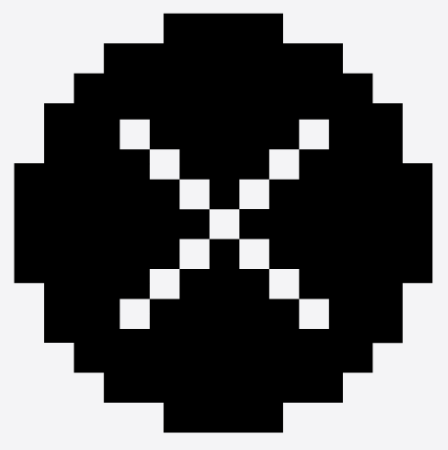
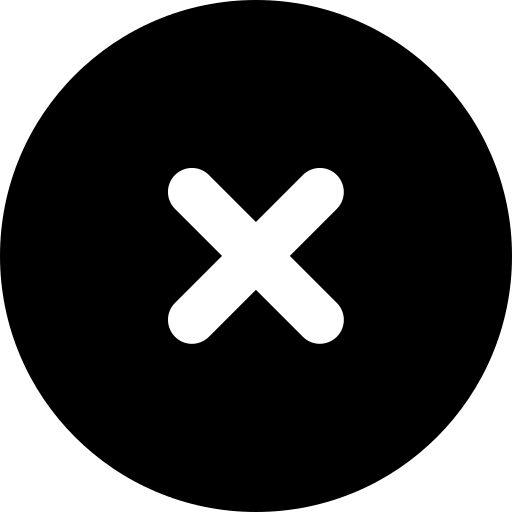
css adjustments

Changed region(s): [[0.0, 0.0, 1.0, 1.0], [0.25, 0.2489, 0.75, 0.7467], [0.25, 0.2489, 0.4688, 0.4667]]

diff --git a/App.js b/App.js
@@ -56,7 +56,7 @@ export default function App() {
                     <View style={styles.hideModal}>
                         <View style={styles.modalView}>
                             <Pressable style={styles.buttonClose} onPress={() => setForecastModalVisible(false)}>
-                                <Image style={styles.error} source={require('./assets/error2.png')} />
+                                <Image style={styles.error} source={require('./assets/error.png')} />
                             </Pressable>
                             <ForecastModal />
                         </View>
@@ -81,7 +81,7 @@ export default function App() {
                 <View style={styles.hideModal}>
                     <View style={styles.modalView}>
                         <Pressable style={styles.buttonClose} onPress={() => setInfoModalVisible(false)}>
-                            <Image style={styles.error} source={require('./assets/error2.png')} />
+                            <Image style={styles.error} source={require('./assets/error.png')} />
                         </Pressable>
                         <InfoModal />
                     </View>
@@ -100,10 +100,10 @@ const styles = StyleSheet.create({
         justifyContent: 'center',
     },
     openModal: {
-        position: 'absolute',
+        // position: 'absolute',
         paddingBottom: '50%',
         paddingTop: '80%',
-        marginHorizontal: '40%',
+        marginHorizontal: '38%',
         zIndex: 1,
     },
     earth: {
@@ -112,7 +112,7 @@ const styles = StyleSheet.create({
         alignSelf: 'center',
     },
 	surfTextContainer: {
-        alignSelf: 'center',
+        // alignSelf: 'center',
         backgroundColor: 'rgba(255, 255, 255, 0.8)', // Semi-transparent background
         paddingVertical: 10,
 		paddingHorizontal: 10,
@@ -128,10 +128,10 @@ const styles = StyleSheet.create({
     },
     hideModal: {
         flex: 1,
-        justifyContent: 'center',
+        justifyContent:'center',
         alignItems: 'center',
         marginHorizontal: '10%',
-        maxHeight: '90%',
+        maxHeight: '100%',
         maxWidth: '80%',
     },
     modalView: {
@@ -150,8 +150,8 @@ const styles = StyleSheet.create({
     error: {
         marginRight: '20%',
         alignSelf: 'flex-end',
-        width: '50%',
-        height: '60%',
+        width: '40%',
+        height: '50%',
         resizeMode: 'contain',
     },
     buttonClose: {

diff --git a/components/DateHour.js b/components/DateHour.js
@@ -123,7 +123,7 @@ export default function DateHour({ data }) {
 
 const styles = StyleSheet.create({
     container: {
-        marginTop: 10,
+        marginTop: '5',
         width: '100%',
         alignItems: 'center',
     },
@@ -131,7 +131,6 @@ const styles = StyleSheet.create({
         flexDirection: 'row',
         justifyContent: 'space-between',
         width: '100%', // Adjust width to fit within the screen
-        marginBottom: 10,
     },
     dropdownDay: {
         width: '60%', // Ensure both dropdowns fit properly
@@ -142,14 +141,16 @@ const styles = StyleSheet.create({
         borderColor: 'rgb(192, 192, 192)',
     },
     navigation: {
+        marginTop: '2%',
         flexDirection: 'row',
-        alignItems: 'flex-end',
+        // alignItems: 'flex-end',
         justifyContent: 'center', // Centers all elements in the row
         width: '100%',
+        height: '100%',
         borderRadius: 6,
     },
     arrowButton: {
-        zIndex: 1
+        zIndex: 1,
     },
     arrowText: {
         fontSize: RFPercentage(3,5),

diff --git a/components/Sub_Conditions/FetchedData.js b/components/Sub_Conditions/FetchedData.js
@@ -59,26 +59,22 @@ const styles = StyleSheet.create({
 		flexDirection: 'row',
 		justifyContent: 'space-between',
 		alignItems: 'center',
-		width: '100%',
-		padding: 10,
+		paddingHorizontal: 10,
+		height: '68%',
 		borderRadius: 8,
 		shadowColor: '#000',
 		shadowOffset: { width: 0, height: 2 },
 		shadowOpacity: 0.1,
 		shadowRadius: 4,
-		elevation: 3,
 		backgroundColor: '#f5f5f5',
 	},
 	iconsColumn: {
-		flex: 1,
 		alignItems: 'center',
 	},
 	labelsColumn: {
-		flex: 2,
 		alignItems: 'flex-start',
 	},
 	dataColumn: {
-		flex: 2,
 		alignItems: 'flex-start',
 	},
 	rowText: {

diff --git a/components/Conditions.js b/components/Conditions.js
@@ -5,11 +5,9 @@ import FetchedData from './Sub_Conditions/FetchedData';
 export default function Conditions(props) {
 	return (
 		<View style={styles.container}>
-			<View style={styles.grid}>
-				<View style={styles.dataContainer}>
+				<View>
 					<FetchedData individualData={props.waves} />
 				</View>
-			</View>
 		</View>
 	);
 }
@@ -17,6 +15,7 @@ export default function Conditions(props) {
 const styles = StyleSheet.create({
 	container: {
 		width: '120%',
-		paddingBottom: 2,
+		height: '100%',
+		marginTop: '12%' // Margin space between arrows and conditions
 	},
 });
